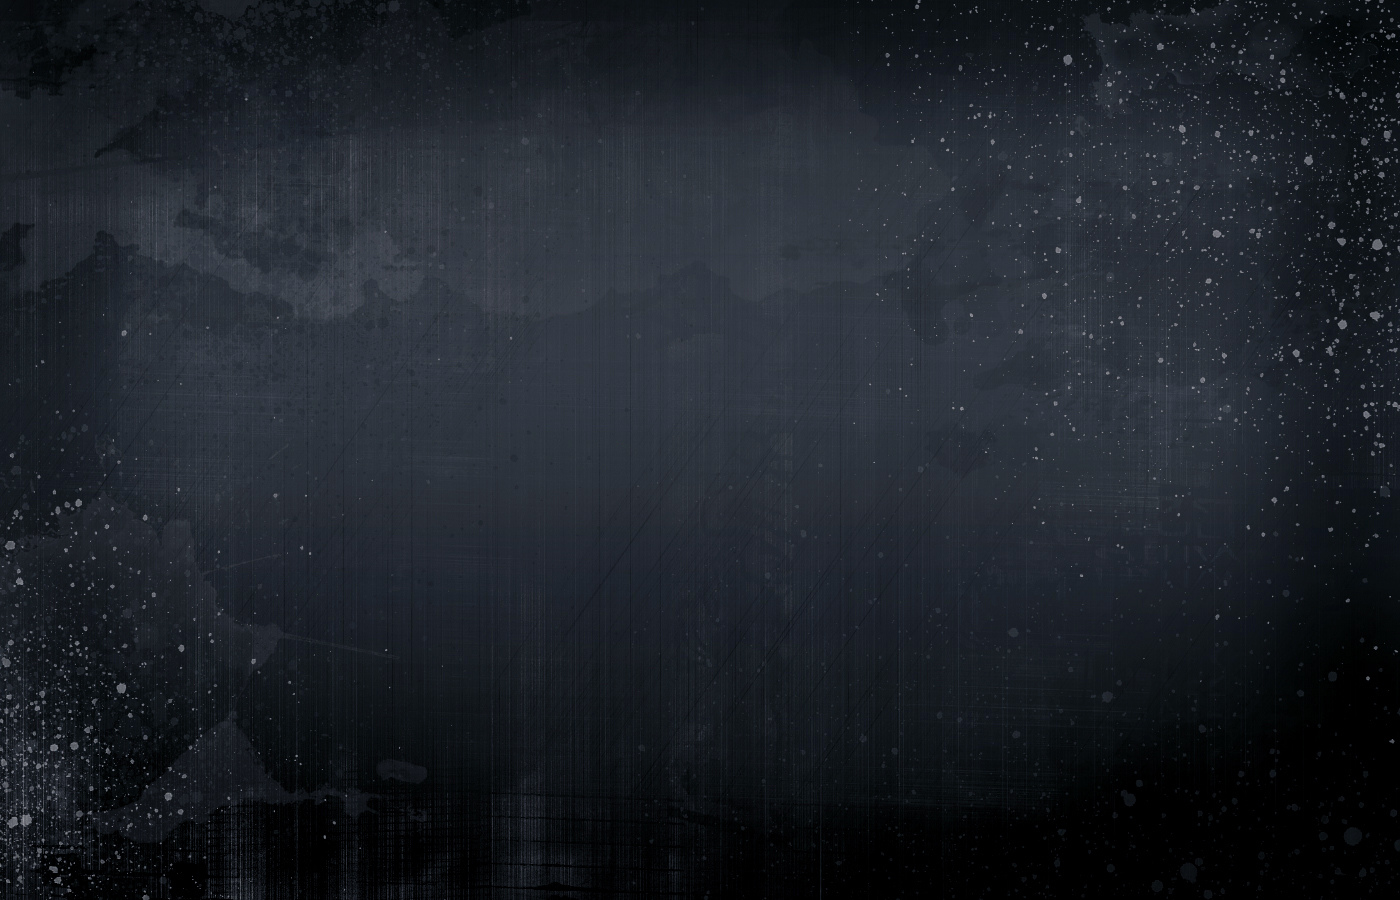
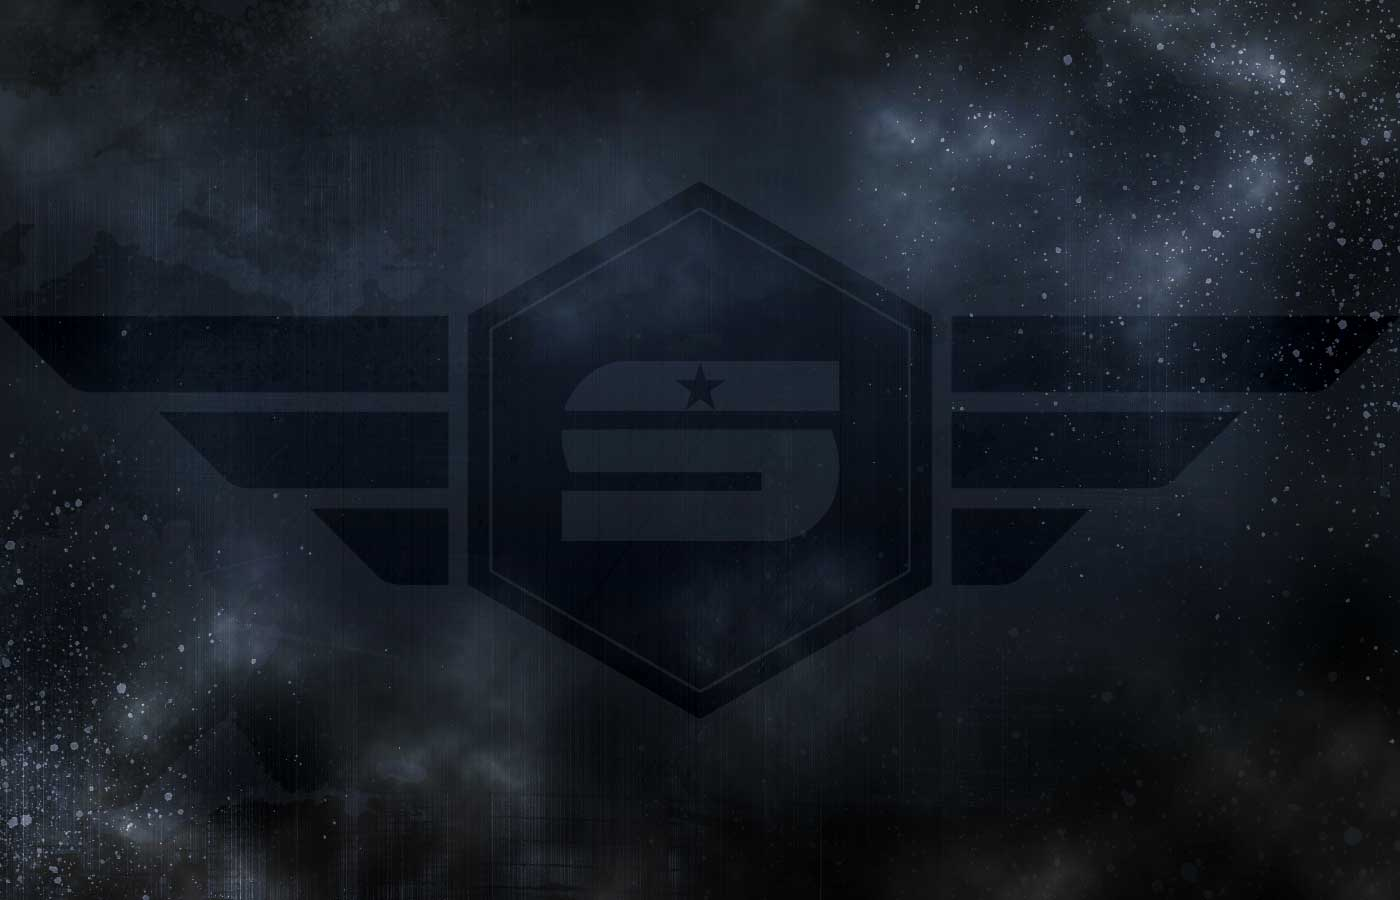
Update

diff --git a/app/modules/home/static/styles/home.css b/app/modules/home/static/styles/home.css
@@ -10,14 +10,14 @@
     margin: 0;
     padding: 0;
     margin-top: -60px;
-    background: url(../images/intro-bg.jpg) no-repeat center center;
+    background: url(../images/intro-bg2.jpg) no-repeat center center;
     background-size: cover;
     height: 100%;
 }
 
 .intro-message {
     position: relative;
-    padding-top: 15%;
+    padding-top: 20%;
     padding-bottom: 20%;
     align: center;
 }

diff --git a/app/modules/home/templates/home/home.html b/app/modules/home/templates/home/home.html
@@ -8,8 +8,9 @@
             <h1>{{ post.title_en_US }}</h1>
             <hr class="intro-divider">
             <h3>{{ post.description_en_US }}</h3>
-            
+ <!--           
 <img class="img-responsive" width="500px" src="{{ url_for('static', filename='images/logo-systemaker-black.png') }}" alt="logo-icon" >
+-->
         </div>
     </div>
 </div>

diff --git a/README.md b/README.md
@@ -74,6 +74,7 @@ Flask WEB API DEMO
 					- create Gunicorn Upstart script : `sudo nano /etc/init/myproject_gunicorn.conf`
 					or customize Upstart script file (see example in file 'myproject_gunicorn.conf' in utils directory) (replace user keyword by your chosen server user name ) and place it in /etc/init/myproject_gunicorn.conf
 					- then type `sudo start myproject_gunicorn` (replace myproject with your application folder name)
+					- After editing a code, you can refresh app by typing `sudo service myproject_gunicorn restart`
 
 	- NGINX:  then create a new server block configuration file in Nginx's sites-available directory.
 		`sudo nano /etc/nginx/sites-available/myproject`
